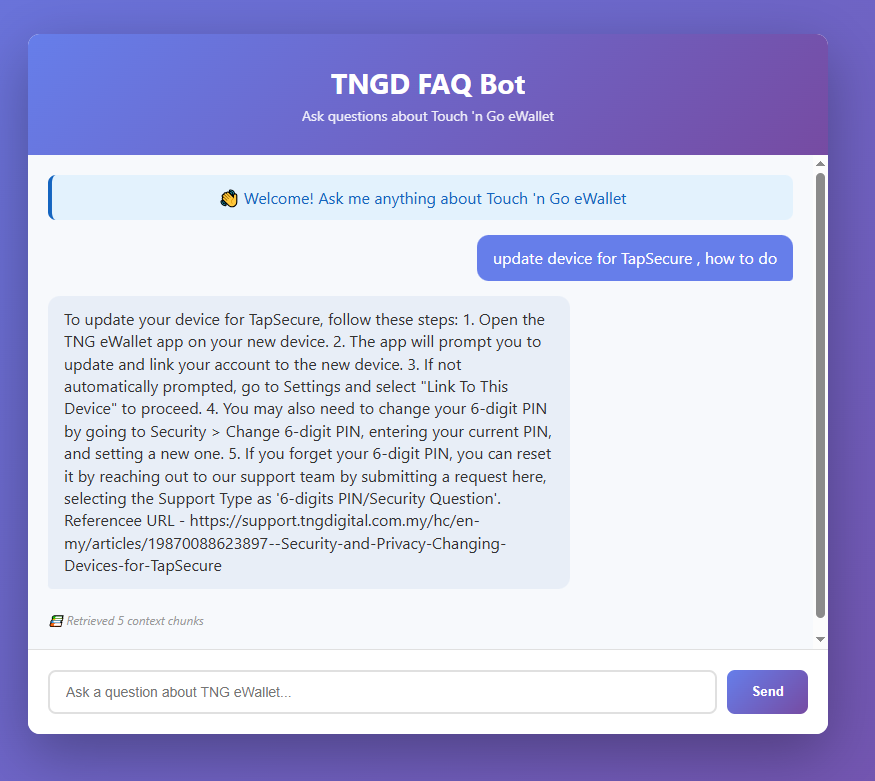
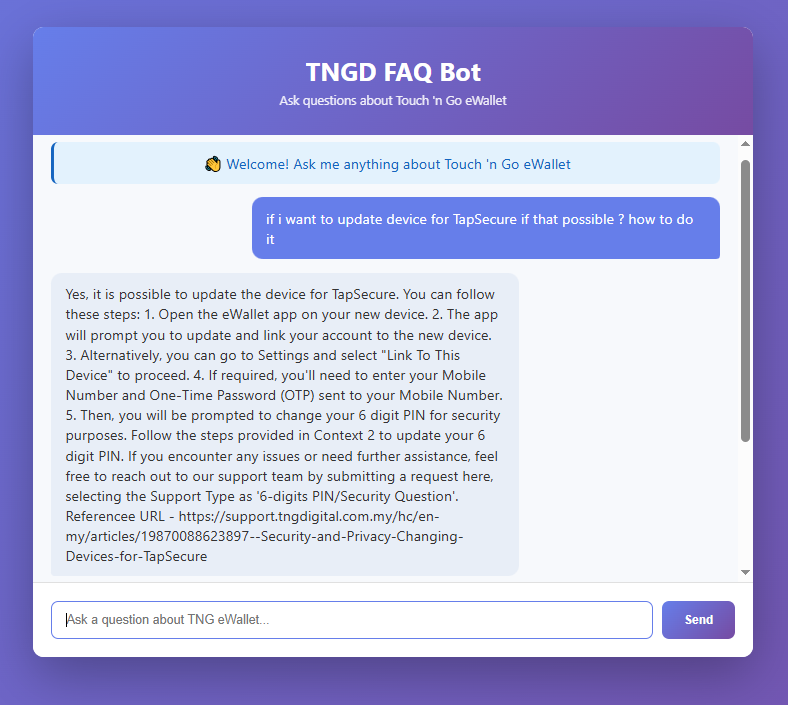
update on requirement.txt

Changed region(s): [[0.0305, 0.0312, 0.9746, 0.9674], [0.335, 0.0624, 0.6396, 0.156]]

diff --git a/tngd_rag/documentation/potential_improvement.md b/tngd_rag/documentation/potential_improvement.md
@@ -24,5 +24,7 @@ Currently, the system relies on a manual JSON with many missing answers (`"-"`).
 * **Latency Monitoring**: Track how long Mistral takes to respond to ensure the local hardware isn't becoming a bottleneck for the user.
 
 Add logging feature
+
+Provide more summary from the given Link/URL
 ---
 *Roadmap Version: 2026.01.22*

diff --git a/README.md b/README.md
@@ -1,2 +1,3 @@
-# simpleRAG
+# Simple TnG RAG   
 ![Simple TnG RAG](screenshot.png)
+![Guard TnG RAG](screenshot2.png)
